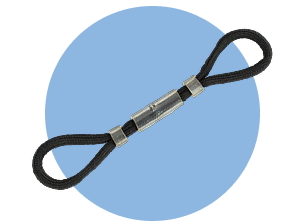
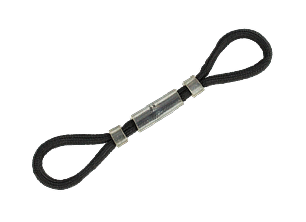
ok

diff --git a/page-about-us.php b/page-about-us.php
@@ -171,16 +171,18 @@ get_header(); ?>
                 <p class="font-light text-gray-500 sm:text-xl ">Learn what equipment is needed what it's used for</p>
             </div>
             <div class="grid gap-8 lg:gap-16 sm:grid-cols-2 md:grid-cols-3 lg:grid-cols-4">
-                <div class="text-center text-gray-500 ">
-                    <img class="mx-auto mb-4 w-36 h-36 rounded-full"
-                         src="<?php echo get_template_directory_uri(); ?>/assets/images/finger-sling.png');">
+                <div class="text-center text-gray-500">
+                    <div class="mx-auto mb-4 w-40 h-40 rounded-full bg-blue-400 flex items-center justify-center">
+                        <img class="w-36 h-36 rounded-full"
+                             src="<?php echo get_template_directory_uri(); ?>/assets/images/finger-sling.png" alt="Finger Sling">
+                    </div>
                     <h3 class="mb-1 text-2xl font-bold tracking-tight text-gray-900">
                         <a href="#">Finger Sling</a>
                     </h3>
                     <p>Mandatory</p>
                     <p>Prevents dropping the bow. The index finger and thumb go through loops to keep the bow in place during the shot.</p>
-
                 </div>
+
 
                 <div class="text-center text-gray-500 ">
                     <img class="mx-auto mb-4 w-36 h-36 rounded-full"
